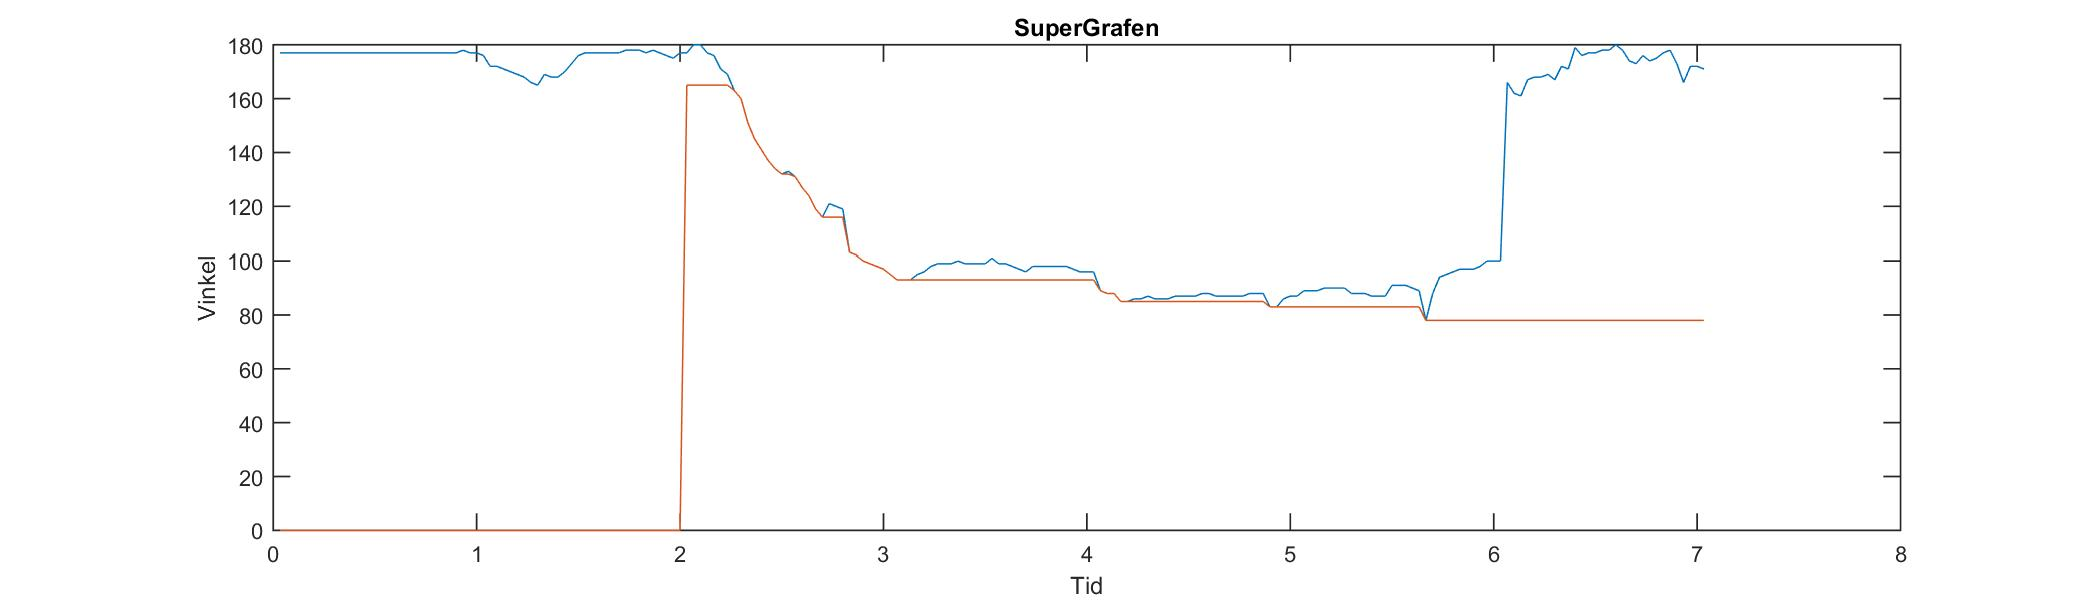
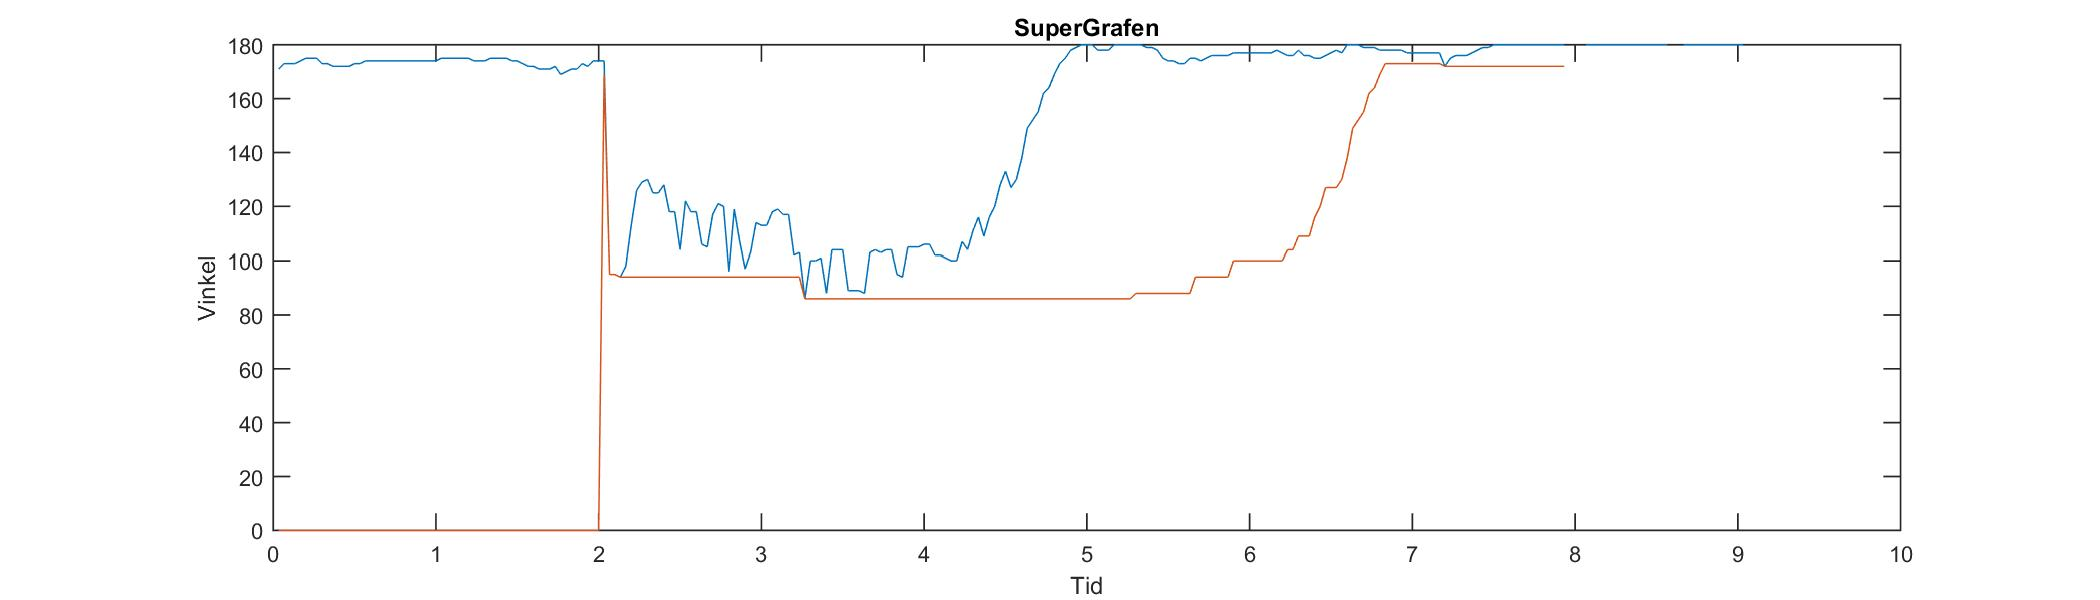
Ja, vad har jag gjort egentligen...

diff --git a/RoadRunners/SkeletonBasics-WPF/ChildWindow.xaml b/RoadRunners/SkeletonBasics-WPF/ChildWindow.xaml
@@ -1,0 +1,20 @@
+<Window x:Class="Microsoft.Samples.Kinect.SkeletonBasics.ChildWindow"
+        xmlns="http://schemas.microsoft.com/winfx/2006/xaml/presentation"
+        xmlns:x="http://schemas.microsoft.com/winfx/2006/xaml"
+        xmlns:d="http://schemas.microsoft.com/expression/blend/2008"
+        xmlns:mc="http://schemas.openxmlformats.org/markup-compatibility/2006"
+        xmlns:local="clr-namespace:Microsoft.Samples.Kinect.SkeletonBasics"
+        mc:Ignorable="d"
+        Title="ChildWindow" Height="300" Width="300">
+    <Grid Margin="0,0,2,0">
+        <TextBlock x:Name="comportText" HorizontalAlignment="Left" Margin="27,59,0,0" TextWrapping="Wrap" VerticalAlignment="Top"><Run Text="Comport"/><LineBreak/><Run/></TextBlock>
+        <TextBlock x:Name="durationtimeText" HorizontalAlignment="Left" Margin="108,59,0,0" TextWrapping="Wrap" Text="Durationtime" VerticalAlignment="Top"/>
+        <TextBlock x:Name="filenameText" HorizontalAlignment="Left" Margin="213,59,0,0" TextWrapping="Wrap" Text="Filename" VerticalAlignment="Top"/>
+        <TextBox x:Name="comportContent" HorizontalAlignment="Left" TextAlignment="Center" Height="23" Margin="13,91,0,0" TextWrapping="Wrap" Text="..." VerticalAlignment="Top" Width="70"/>
+        <TextBlock x:Name="titel" HorizontalAlignment="Left" Margin="108,20,0,0" TextWrapping="Wrap" Text="Set values" VerticalAlignment="Top"/>
+        <TextBox x:Name="durationContent" HorizontalAlignment="Left" TextAlignment="Center" Margin="108,91,0,0" TextWrapping="Wrap" Text="..." VerticalAlignment="Top" Width="70" Height="23"/>
+        <TextBox x:Name="filenameContent" HorizontalAlignment="Left" TextAlignment="Center" Height="23" Margin="204,91,0,0" TextWrapping="Wrap" Text="..." VerticalAlignment="Top" Width="72"/>
+        <Button x:Name="startHeartRateCalc" Content="Run" HorizontalAlignment="Left" Margin="108,191,0,0" VerticalAlignment="Top" Width="75" Click="startHeartRateCalc_Click"/>
+
+    </Grid>
+</Window>

diff --git a/RoadRunners/SkeletonBasics-WPF/MainWindow.xaml b/RoadRunners/SkeletonBasics-WPF/MainWindow.xaml
@@ -50,6 +50,9 @@
         <Button x:Name="quitbutton" Content="Quit" HorizontalAlignment="Left" Margin="1160,599,0,0" VerticalAlignment="Top" Width="75" Click="quitbutton_Click"/>
         <TextBlock x:Name="testdirektiv" FontSize="20" FontWeight="Bold" HorizontalAlignment="Left" Margin="626,24,0,0" TextWrapping="Wrap" Text="Testdirektiv" VerticalAlignment="Top" Width="120" Height="32"/>
         <TextBlock x:Name="textTestdirektiv" FontSize="18" TextAlignment="Center" FontWeight="Bold" Foreground="Black" HorizontalAlignment="Left" Margin="536,54,0,0" TextWrapping="Wrap" VerticalAlignment="Top" Width="286" Height="68"><Run Text="....................."/><Run Text=".."/><LineBreak/><Run/></TextBlock>
+        <Button x:Name="display_heartrate" Content="Display Heartrate" HorizontalAlignment="Left" Margin="451,122,0,0" VerticalAlignment="Top" Width="100" Click="display_heartrate_Click"/>
+        <Button x:Name="display_angle" Content="Display Angle" HorizontalAlignment="Left" Margin="451,158,0,0" VerticalAlignment="Top" Width="100" Click="display_angle_Click"/>
+        <Button x:Name="setting" Content="Settings" HorizontalAlignment="Left" Margin="451,87,0,0" VerticalAlignment="Top" Width="100" Click="setting_Click"/>
 
     </Grid>
 </Window>

diff --git a/RoadRunners/SkeletonBasics-WPF/MainWindow.xaml.cs b/RoadRunners/SkeletonBasics-WPF/MainWindow.xaml.cs
@@ -7,9 +7,11 @@
 namespace Microsoft.Samples.Kinect.SkeletonBasics
 {
     using System.IO;
+    using Microsoft.Kinect;
     using System.Windows;
     using System.Windows.Media;
-    using Microsoft.Kinect;
+    using System.Windows.Controls;
+    using System.Text;
     using System;
     using System.Collections.Generic;
     using System.Linq;
@@ -22,7 +24,7 @@ namespace Microsoft.Samples.Kinect.SkeletonBasics
     /// </summary>
     public partial class MainWindow : Window
     {
-        
+
         /// <summary>
         /// Width of output drawing
         /// </summary>
@@ -94,10 +96,19 @@ namespace Microsoft.Samples.Kinect.SkeletonBasics
         public MainWindow()
         {
             InitializeComponent();
-       
+            setting.Click += new RoutedEventHandler(delegate (object sender, RoutedEventArgs e)
+            {
+                //ChildWindowchldWindow = newChildWindow();
+                //MessageBox.Show(chldWindow.Getmessage());
+                //chldWindow.ShowDialog();
+
+                ChildWindow chldWindow = new ChildWindow();
+                chldWindow.ShowInTaskbar = false;
+                chldWindow.Owner = Application.Current.MainWindow;
+                chldWindow.ShowDialog(); 
+            });
 
 
-            
         }
         
 
@@ -151,8 +162,9 @@ namespace Microsoft.Samples.Kinect.SkeletonBasics
 
         private void restartbutton_Click(object sender, RoutedEventArgs e)
         {
-            this.sensor.Stop();
-            this.sensor.Start();
+            
+            //this.sensor.Stop();
+            //this.sensor.Start();
         }
 
         /// <summary>
@@ -213,8 +225,8 @@ namespace Microsoft.Samples.Kinect.SkeletonBasics
                         {
                             //this.DrawBonesAndJoints(skel, dc);
                             //Console.WriteLine("Innan calcvelocity");
-                            //this.CalculateVelocity(skel, dc);
-                            this.CalculateAngles(skel, dc);
+                            this.CalculateVelocity(skel, dc);
+                            //this.CalculateAngles(skel, dc);
                             Console.WriteLine("HEJ");
                         }
                         else if (skel.TrackingState == SkeletonTrackingState.PositionOnly)
@@ -306,7 +318,6 @@ namespace Microsoft.Samples.Kinect.SkeletonBasics
 
             }
         }
-
       
         //Hämtar bild som ritas i matlab
         private void CompositionTargetRendering() //object sender, EventArgs e
@@ -324,6 +335,22 @@ namespace Microsoft.Samples.Kinect.SkeletonBasics
         
              vinkelImage.Source = _image;
         }
+        /*
+        private void CompositionTargetRendering1() //object sender, EventArgs e
+        {
+            BitmapImage image = new BitmapImage();
+            string pathImage = Path.Combine(Directory.GetCurrentDirectory());
+
+            image.BeginInit();
+            image.CacheOption = BitmapCacheOption.None;
+            image.UriCachePolicy = new System.Net.Cache.RequestCachePolicy();
+            image.CacheOption = BitmapCacheOption.OnLoad;
+            image.CreateOptions = BitmapCreateOptions.IgnoreImageCache;
+            image.UriSource = new Uri(pathImage + @"\..\..\Vinkelgraf.jpeg", UriKind.RelativeOrAbsolute);
+            image.EndInit();
+
+            vinkelImage.Source = image;
+        }*/
 
         /// <summary>
         /// Draws a skeleton's bones and joints
@@ -332,7 +359,7 @@ namespace Microsoft.Samples.Kinect.SkeletonBasics
         /// <param name="drawingContext">drawing context to draw to</param>
         /// 
 
- //------------------------------- Hastighetsberäkning -----------------------------------// 
+        //------------------------------- Hastighetsberäkning -----------------------------------// 
         // Variabler för hastighet
         double stepTime = 0;
         double sumStep = 0;
@@ -445,7 +472,9 @@ namespace Microsoft.Samples.Kinect.SkeletonBasics
 
         int count = 0;
 
-//------------------------------- Vinkelberäkning ----------------------------------------------------//
+        // -------------------------------------------------------------------------------------//
+        //------------------------------- Vinkelberäkning --------------------------------------//
+        // -------------------------------------------------------------------------------------//
 
         // Skapar listorna som behövs
         public List<double> vinklar = new List<double>();
@@ -523,8 +552,8 @@ namespace Microsoft.Samples.Kinect.SkeletonBasics
 
                 if (SHK_angle < 140)
                 {
-                    textTestdirektiv.Text = "Sträck på dig!!!";
-                    SystemSounds.Asterisk.Play();
+                    //textTestdirektiv.Text = "Sträck på dig!!!";
+                    //SystemSounds.Asterisk.Play();
                 }
             }
 
@@ -547,8 +576,8 @@ namespace Microsoft.Samples.Kinect.SkeletonBasics
 
                 if (FHK_angle < 90)
                 {
-                    textTestdirektiv.Text = "Sträck ut i knäna!!!";
-                    SystemSounds.Asterisk.Play();
+                    //textTestdirektiv.Text = "Sträck ut i knäna!!!";
+                    //SystemSounds.Asterisk.Play();
                 }
             }
 
@@ -566,8 +595,12 @@ namespace Microsoft.Samples.Kinect.SkeletonBasics
             {
                 minimumlista.Add(lagsta_varde);
             }
-            printMatLab(tidsLista, vinklar, minimumlista);
+            //printMatLab(tidsLista, vinklar, minimumlista);
         }
+
+ // -------------------------------------------------------------------------------------//
+ // -------------------------- Saker som ritar ------------------------------------------//
+ // -------------------------------------------------------------------------------------//
 
         // Skickar allting till matlab och plottas sedan
         void printMatLab(List<double> list1, List<double> list2, List<double> list3)
@@ -588,7 +621,6 @@ namespace Microsoft.Samples.Kinect.SkeletonBasics
                 {
                     CompositionTargetRendering();
                     matlab.Feval("myfunc", 1, out result, list1.ToArray(), list2.ToArray(), list3.ToArray());
-
                 }
                 catch (System.Runtime.InteropServices.COMException)
                 {
@@ -596,6 +628,31 @@ namespace Microsoft.Samples.Kinect.SkeletonBasics
                 }
                 updateMatlab = updateMatlab + 30;
             }
+        }
+
+        // Skickar allting till matlab och plottas sedan
+        void printMatLab1(string funktionsnamn, string comport, int durationtime, string fileName)
+        {
+            //MATLABPLOT
+            //Skickar data till matlab i ett specifikt satt intervall
+            
+                // Change to the directory where the function is located 
+                var path = Path.Combine(Directory.GetCurrentDirectory());
+                matlab.Execute(@"cd " + path + @"\..\..");
+
+                // Define the output 
+                object result = null;
+
+                // Call the MATLAB function myfunc! Kastar även eventuella runtimefel
+                try
+                {
+                    matlab.Feval(funktionsnamn, 1, out result, comport.ToString(), durationtime, fileName);
+
+                }
+                catch (System.Runtime.InteropServices.COMException)
+                {
+
+                }
         }
 
         // Ritar ut skelettmodellen på bilden
@@ -707,10 +764,12 @@ namespace Microsoft.Samples.Kinect.SkeletonBasics
         /// </summary>
         /// <param name="sender">object sending the event</param>
         /// <param name="e">event arguments</param>
-       
 
 
-        // för att ändra tilten på kinecten
+        // -------------------------------------------------------------------------------------//
+        // --------------------------------- Vinkel på kinecten --------------------------------// 
+        // -------------------------------------------------------------------------------------//
+
         private void slider_ValueChanged(object sender, RoutedPropertyChangedEventArgs<double> e)
         {
             int n = (int)slider.Value;
@@ -756,12 +815,33 @@ namespace Microsoft.Samples.Kinect.SkeletonBasics
 
         private void FKHbox_Checked(object sender, RoutedEventArgs e)
         {
-          
+
         }
 
         private void SHKbox_Checked(object sender, RoutedEventArgs e)
         {
 
         }
+
+        public string funktionsnamn = null;
+        public string comport = null; 
+        //public int durationtime = 0;
+        public string filnamn = null; 
+
+        private void display_heartrate_Click(object sender, RoutedEventArgs e)
+        {
+            printMatLab1("ecgtoheartrate", comport, durationtime, filnamn);
+        }
+
+        private void display_angle_Click(object sender, RoutedEventArgs e)
+        {
+            printMatLab(tidsLista, vinklar, minimumlista);
+        }
+        
+        private void setting_Click(object sender, RoutedEventArgs e)
+        {
+
+        }
+
     }
 }

diff --git a/RoadRunners/SkeletonBasics-WPF/ChildWindow.xaml.cs b/RoadRunners/SkeletonBasics-WPF/ChildWindow.xaml.cs
@@ -1,0 +1,38 @@
+using System;
+using System.Collections.Generic;
+using System.Linq;
+using System.Text;
+using System.Windows;
+using System.Windows.Controls;
+using System.Windows.Data;
+using System.Windows.Documents;
+using System.Windows.Input;
+using System.Windows.Media;
+using System.Windows.Media.Imaging;
+using System.Windows.Shapes;
+
+namespace Microsoft.Samples.Kinect.SkeletonBasics
+{
+    /// <summary>
+    /// Interaction logic for ChildWindow.xaml
+    /// </summary>
+    public partial class ChildWindow : Window
+    {
+        public ChildWindow()
+        {
+            InitializeComponent();
+        }
+
+        public string comport;
+        public string convdurationtime;
+        public string filname;
+
+        private void startHeartRateCalc_Click(object sender, RoutedEventArgs e)
+        {
+            comport = comportContent.Text;
+            convdurationtime = durationContent.Text;
+            filname = filenameContent.Text;
+            int durationtime = int.Parse(convdurationtime);
+        }
+    }
+}
